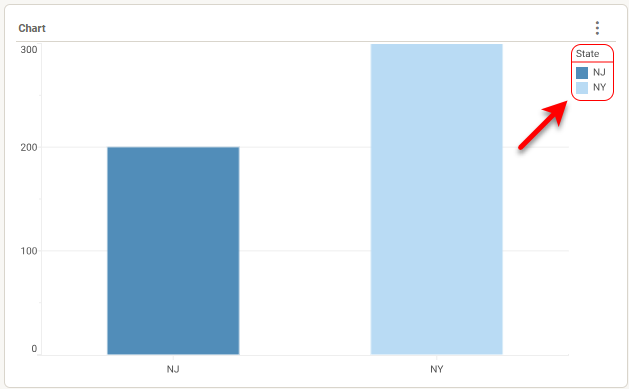
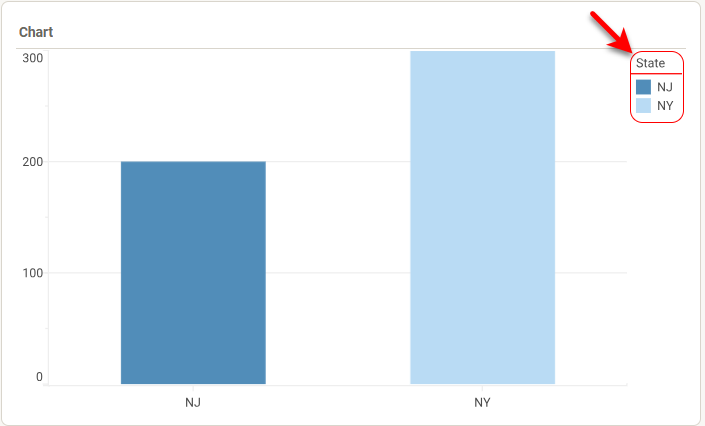
Replace the LegendSpec round-corners placeholder images and fix the pages
Replace the placeholder screenshots with real ones from the epic build. Correct
the getter names to isRoundCorners() and isSymbolRoundCorners(), make the
symbol example set true so it shows the effect, and state that a new LegendSpec
defaults to square symbols.

Changed region(s): [[0.0, 0.0, 1.0, 1.0], [0.151, 0.3702, 0.3927, 0.9563]]

diff --git a/InetSoftUserDocumentation/modules/scriptexample/partials/LegendSpecSetSymbolRoundCorners1.js b/InetSoftUserDocumentation/modules/scriptexample/partials/LegendSpecSetSymbolRoundCorners1.js
@@ -4,7 +4,7 @@ var elem = new IntervalElement("State", "Quantity");
 var frame = new CategoricalColorFrame();
 frame.setField("State");
 var spec = new LegendSpec(); // <2>
-spec.setSymbolRoundCorners(false); // <3>
+spec.setSymbolRoundCorners(true); // <3>
 spec.setSymbolSize(40); // <4>
 var tspec = new TextSpec();
 tspec.setFont(java.awt.Font('Dialog', java.awt.Font.PLAIN, 20)); // <5>
